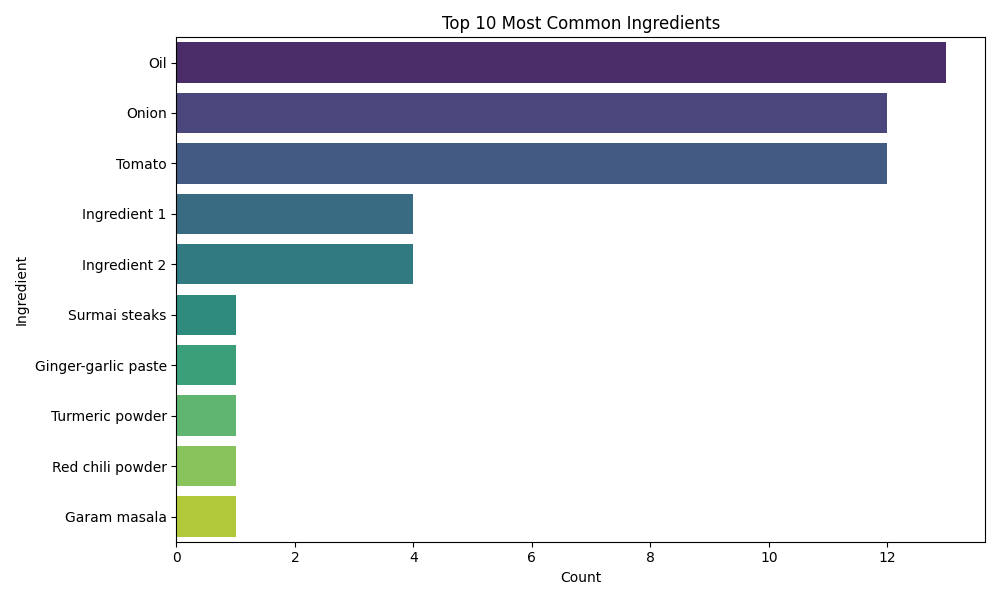
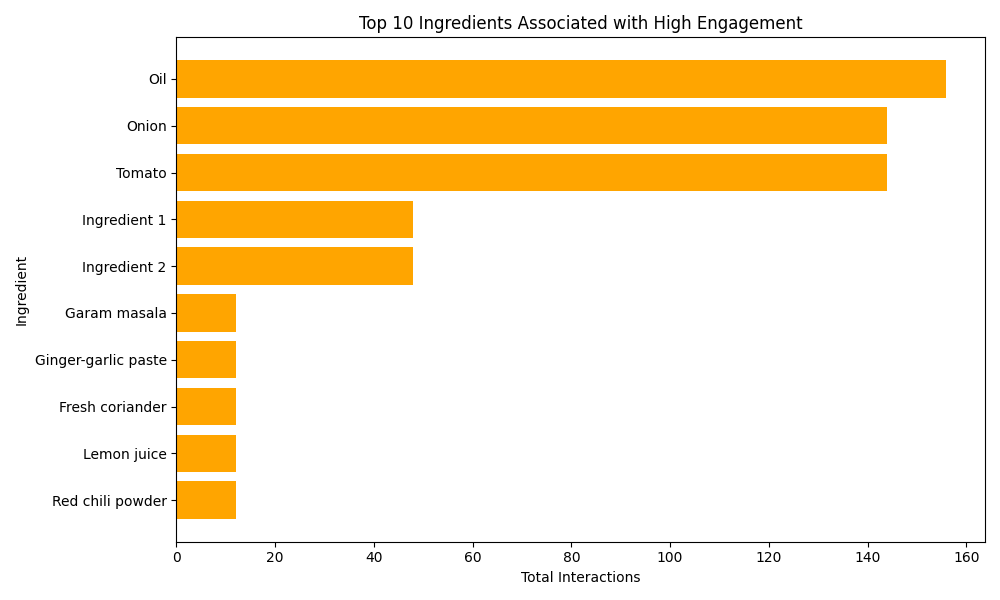
Added visualization script and charts for top recipes & ingredients

diff --git a/Visualization.py b/Visualization.py
@@ -1,0 +1,65 @@
+# Visualization.py
+import os
+import pandas as pd
+import matplotlib.pyplot as plt
+
+# ----------------------
+# 1⃣ Load CSV files
+# ----------------------
+data_folder = r"C:\Users\Home\Desktop\Bhakti Dighe\recipe-project\data"
+ingredients = pd.read_csv(os.path.join(data_folder, "ingredients.csv"))
+interactions = pd.read_csv(os.path.join(data_folder, "interactions.csv"))
+
+# ----------------------
+# 2⃣ Inspect columns
+# ----------------------
+print("Ingredients columns:", ingredients.columns)
+print("Interactions columns:", interactions.columns)
+
+# ----------------------
+# 3⃣ Merge DataFrames
+# ----------------------
+merged_df = ingredients.merge(interactions, on="recipeId", how="left")
+
+# If 'interaction_count' does not exist, create it
+merged_df['interaction_count'] = 1  # each row = 1 interaction
+
+# ----------------------
+# 4⃣ Prepare charts folder
+# ----------------------
+charts_folder = r"C:\Users\Home\Desktop\Bhakti Dighe\recipe-project\charts"
+os.makedirs(charts_folder, exist_ok=True)
+
+# ----------------------
+# 5⃣ Chart 1: Most frequently viewed recipes
+# ----------------------
+recipe_engagement = merged_df.groupby('recipeId')['interaction_count'].sum().reset_index()
+top_recipes = recipe_engagement.sort_values(by='interaction_count', ascending=False).head(10)
+
+plt.figure(figsize=(10,6))
+plt.barh(top_recipes['recipeId'], top_recipes['interaction_count'], color='skyblue')
+plt.xlabel("Interaction Count")
+plt.ylabel("Recipe ID")
+plt.title("Top 10 Most Frequently Viewed Recipes")
+plt.gca().invert_yaxis()  # highest at top
+plt.tight_layout()
+plt.savefig(os.path.join(charts_folder, "top_recipes.png"))
+plt.close()
+
+# ----------------------
+# 6⃣ Chart 2: Ingredients associated with high engagement
+# ----------------------
+ingredient_engagement = merged_df.groupby('name')['interaction_count'].sum().reset_index()
+top_ingredients = ingredient_engagement.sort_values(by='interaction_count', ascending=False).head(10)
+
+plt.figure(figsize=(10,6))
+plt.barh(top_ingredients['name'], top_ingredients['interaction_count'], color='orange')
+plt.xlabel("Total Interactions")
+plt.ylabel("Ingredient")
+plt.title("Top 10 Ingredients Associated with High Engagement")
+plt.gca().invert_yaxis()
+plt.tight_layout()
+plt.savefig(os.path.join(charts_folder, "top_ingredients.png"))
+plt.close()
+
+print("Charts saved in folder:", charts_folder)
